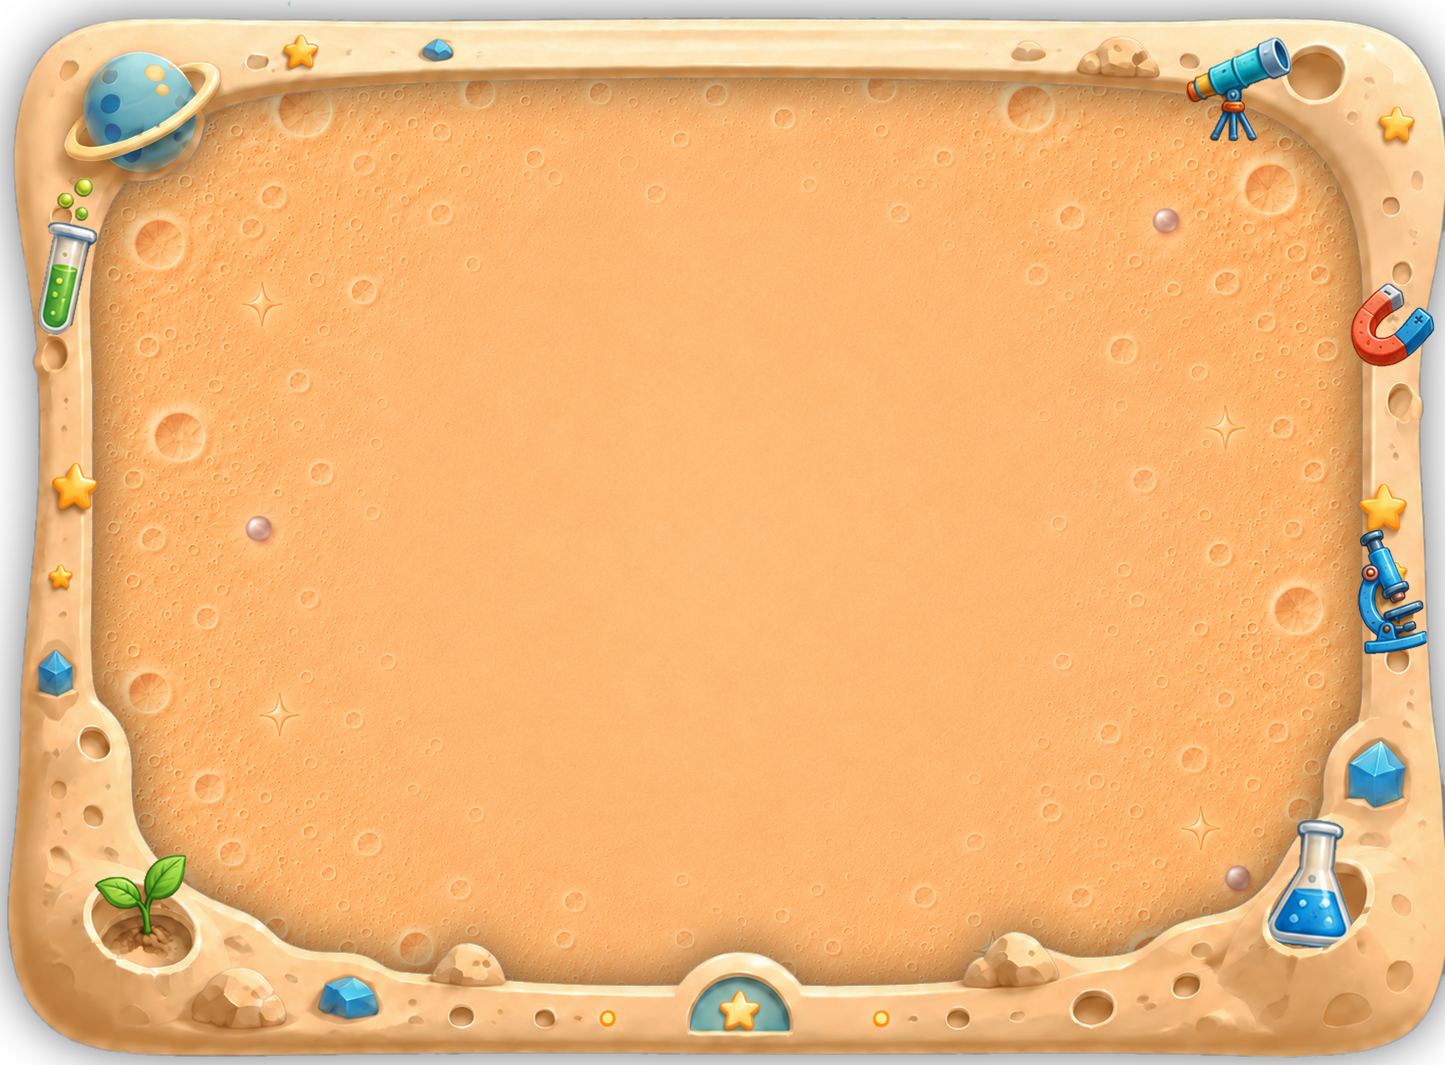
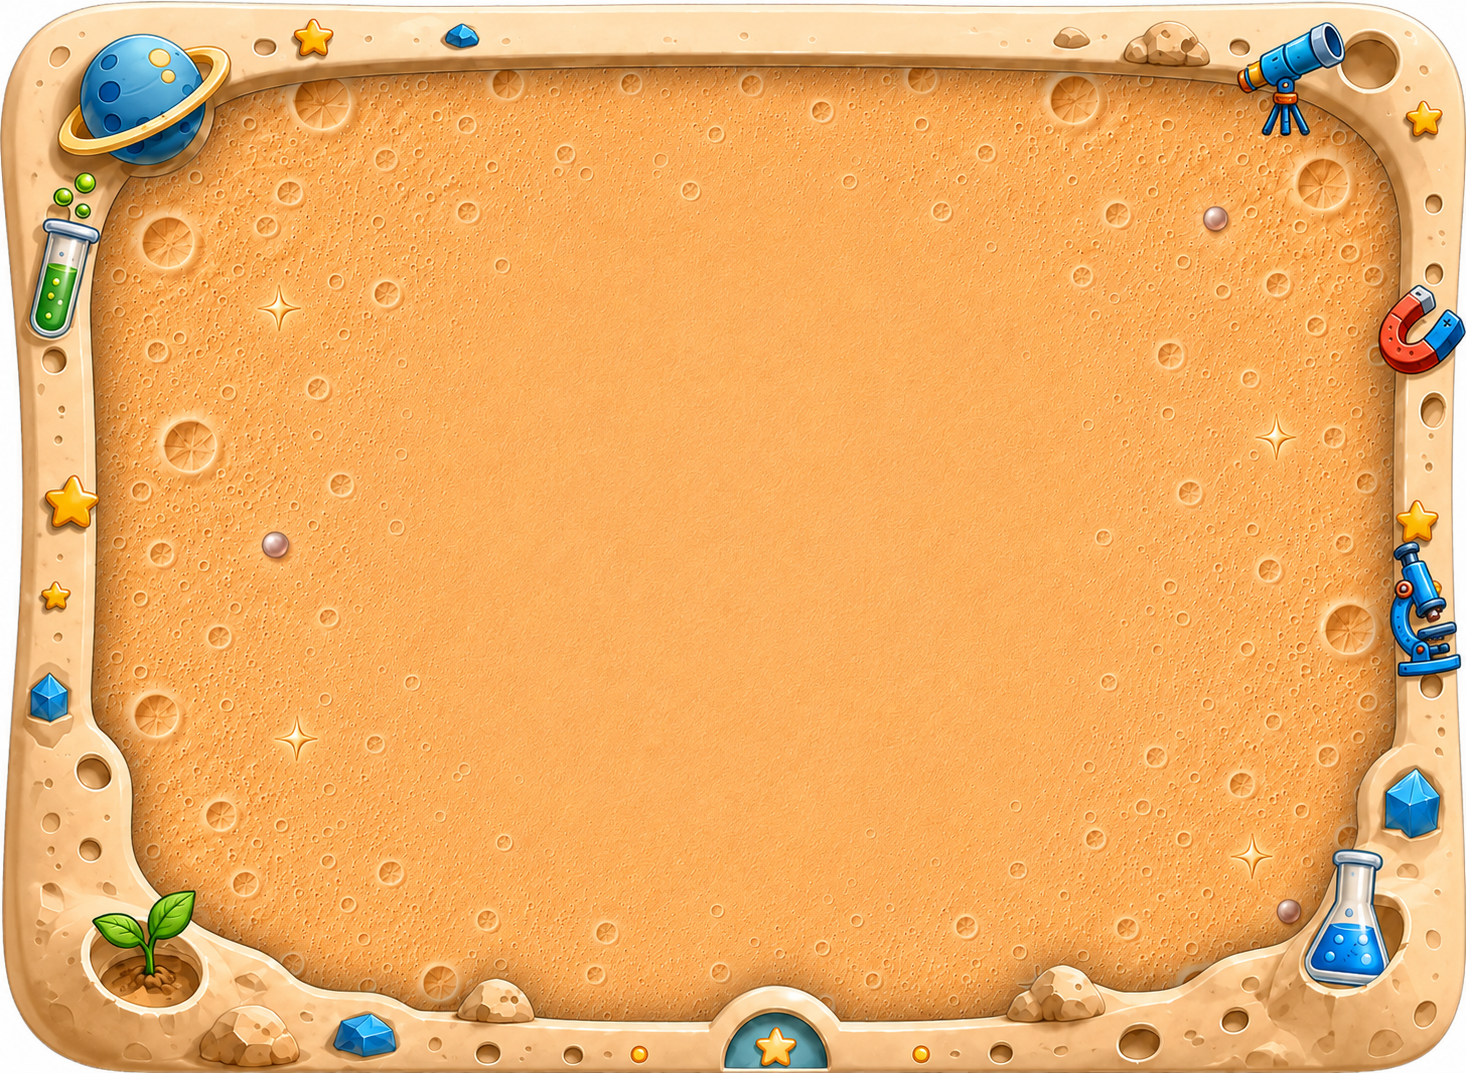
تحديث الصورة
frame-moon-m.png نسخةٌ جديدة 1466×1073 (كانت 1445×1065)، ومعها `ar` في
FRAME_FAMILIES وجدولا المهارة — فرقُ النسبةِ 0.7٪ فوقَ عتبةِ reconcileAR.
نسبةُ النافذة 1.39 → 1.40.

مُتحقَّق: صفرُ تحذيراتٍ في الطرفية، النسبةُ المعروضة 1.3663 = المعلنة،
واختيارُ الأطرِ للأسئلةِ الستّة كما هو، وفجوةُ الأيقونات 10px.

diff --git a/js/shoogp-ui.js b/js/shoogp-ui.js
@@ -109,7 +109,7 @@ function gateOn(){
 var FRAME_FAMILIES={
   moon:{ order:['s','m','l','tall'], flexBase:'l', sizes:{
     s:{img:'frame-moon-s.png', ar:'1836 / 856',  win:{top:'13%',  left:'8.5%', right:'9%',    bottom:'13.5%'}, hasFill:false},
-    m:{img:'frame-moon-m.png', ar:'1445 / 1065', win:{top:'10%',  left:'9.5%', right:'9.5%',  bottom:'11%'},   hasFill:false},
+    m:{img:'frame-moon-m.png', ar:'1466 / 1073', win:{top:'10%',  left:'9.5%', right:'9.5%',  bottom:'11%'},   hasFill:false},
     l:{img:'frame-moon-l.png', ar:'1246 / 1222', win:{top:'10.5%',left:'12.5%',right:'11.5%', bottom:'11.5%'}, hasFill:false},
     tall:{img:'frame-moon-tall.png', ar:'973 / 1464', win:{top:'9.7%', left:'14.6%', right:'14.3%', bottom:'13.8%'}, hasFill:false}
   }},

diff --git a/.claude/skills/shoogp-ui/SKILL.md b/.claude/skills/shoogp-ui/SKILL.md
@@ -36,7 +36,7 @@ description: نظام واجهة شوجب الفضائي — تصميم الوا
 | `badge-qnum.png` | شارة رقم السؤال | الصورة كما هي + النص الحيّ متوسّط |
 | `badge-qtype.png` | شارة نوع السؤال | إزاحة يسارية بسيطة كي لا يزاحم النصُّ الزخرفة |
 | `progress-pill.png` | مؤشّر التقدّم | *لا يوجد بعد — `.qprogress` يعرض `badge-qnum.png` (صورة) مؤقتاً* |
-| `frame-moon-{s,m,l,tall}.png` | عائلة `moon` القمرية (كلُّ المواد عدا الرياضيات) | **1836×856 · 1445×1065 · 1246×1222 · 973×1464** (أُعيدَ تصديرُ s/m/l — الأبعادُ تتغيّرُ مع كلِّ تصدير، **فتُحدَّث `ar` في `FRAME_FAMILIES` معها** وإلا صرخَ `reconcileAR`). مُعلَنةٌ `hasFill:false`، **لكنّ نسخَها الحاليةَ معتمةُ الداخل** (التعبئةُ مدموجةٌ في الملفّ) فتُخفى `.qfill` تلقائياً بكشفِ «الفتحةِ الضامرة» (§٥) |
+| `frame-moon-{s,m,l,tall}.png` | عائلة `moon` القمرية (كلُّ المواد عدا الرياضيات) | **1836×856 · 1466×1073 · 1246×1222 · 973×1464** (أُعيدَ تصديرُ s/m/l — الأبعادُ تتغيّرُ مع كلِّ تصدير، **فتُحدَّث `ar` في `FRAME_FAMILIES` معها** وإلا صرخَ `reconcileAR`). مُعلَنةٌ `hasFill:false`، **لكنّ نسخَها الحاليةَ معتمةُ الداخل** (التعبئةُ مدموجةٌ في الملفّ) فتُخفى `.qfill` تلقائياً بكشفِ «الفتحةِ الضامرة» (§٥) |
 | `frame-math-s.png` | عائلة `math` (الرياضيات) — مقاس s | تعبئةٌ **مدموجةٌ في الصورة** (`hasFill:true`، لا `.qfill`)؛ 1536×1024، لونُ التعبئة #00b6d7. نافذتُها قِيست L13.8/R13.8/T26.8/B24.3٪ |
 | `frame-math-m.png` | عائلة `math` (الرياضيات) — مقاس m | تعبئةٌ **مدموجةٌ في الصورة** (`hasFill:true`، لا `.qfill`)؛ 1445×1055 (= القمريّ m)، لونُ التعبئة #fefefe. *مكانا `frame-math-l/tall` ما زالا قمريَّين مؤقتاً في `FRAME_FAMILIES.math`.* |
 | `frame-moon-math-s.png` | **متجاوَز** (نظام قديم) | استُبدل بعائلة `math` أعلاه؛ لم يعد يُستعمَل — حُذف |
@@ -99,7 +99,7 @@ description: نظام واجهة شوجب الفضائي — تصميم الوا
 | الإطار | الأبعاد px | نسبة الإطار | **نسبة النافذة** | الاستعمال النموذجيّ |
 |---|---|---|---|---|
 | `s` | 1836×856 | 2.15 | **2.41** | القصير العريض (صواب/خطأ، استبعاد) |
-| `m` | 1445×1065 | 1.36 | **1.39** | المتوسّط (اختيار، توصيل، تحديد أجزاء) |
+| `m` | 1466×1073 | 1.37 | **1.40** | المتوسّط (اختيار، توصيل، تحديد أجزاء) |
 | `l` | 1246×1222 | 1.02 | **0.99** | المربّع (سحب، ملء فراغ) |
 | `tall` | 973×1464 | 0.66 | **0.618** | الطويل (عدسة، بازل، تلوين، تكبير) |
 
